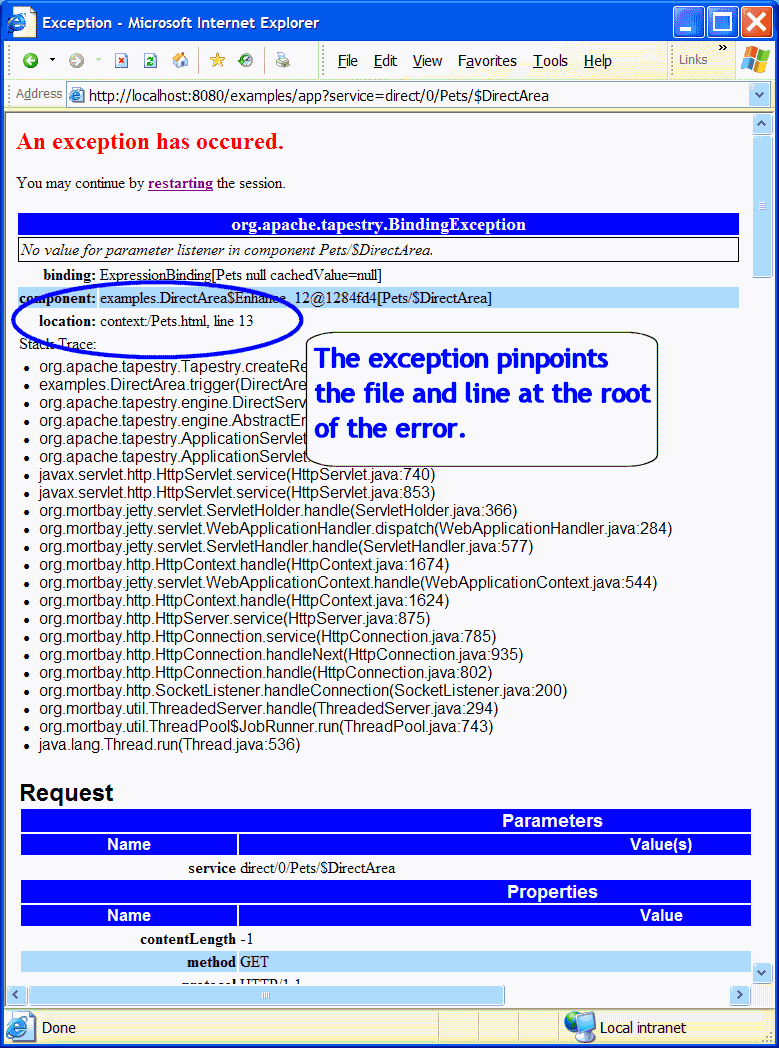
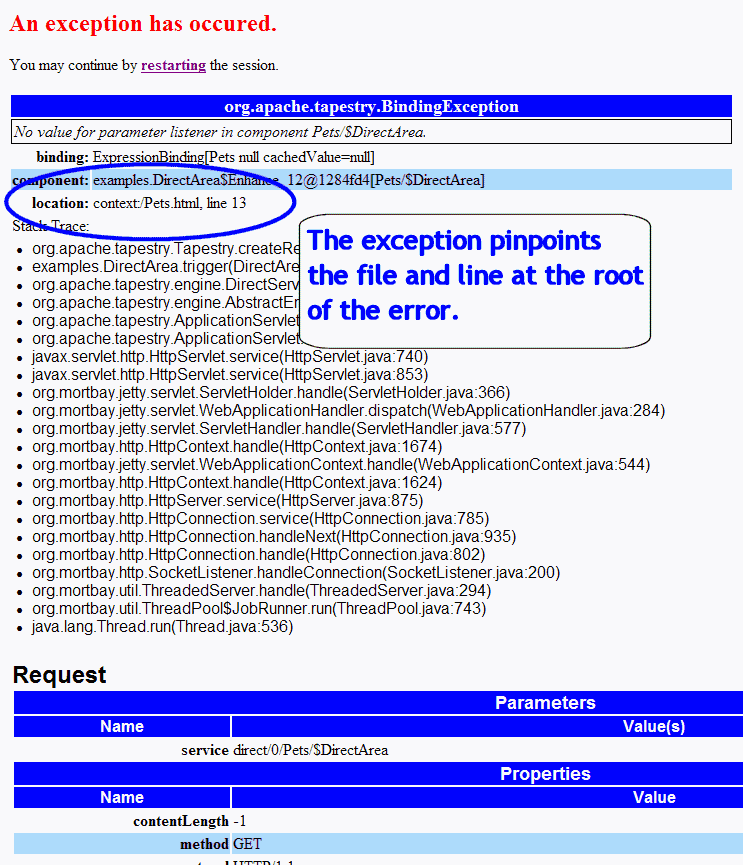
Simplify image demonstrating "line precise" error reporting.
git-svn-id: https://svn.apache.org/repos/asf/jakarta/tapestry/trunk@243349 13f79535-47bb-0310-9956-ffa450edef68

diff --git a/web/index_content.html b/web/index_content.html
@@ -62,7 +62,7 @@
 	in terms of objects, methods and properties
 	instead of URLs and query parameters.</span>"
 	
-	<p><A href="quotes_frame.html" target=_top>More Quotes ...</a></p>
+	<p><A href="quotes_frame.html">More Quotes ...</a></p>
 </div>Tapestry is an alternative to 
 	scripting environments such as
       JavaServer Pages or Velocity.  Tapestry goes far further,
@@ -91,7 +91,7 @@
 				<li>Extremely robust applications<br>
 				<i>Less code is less bugs
 					<br/>Sophisticated built-in exception reporting
-					<br/><a href="faq.html#lineprecise">Line precise error reporting</a>
+					<br/><a target="_self" href="faq.html#lineprecise">Line precise error reporting</a>
 				</i>
 				
 				<li>Easy team integration<br>
@@ -116,10 +116,10 @@ pages.
       It was released onto SourceForge in July, 2000.
 	  Release 1.0.0 
       occurred in May, 2001 and Release 2.0.0 in April, 2002.</p>
-<p>Tapestry moved to <a target="_top" href="http://jakarta.apache.org">The Jakarta Project</a> in January, 2003.	  
+<p>Tapestry moved to <a href="http://jakarta.apache.org">The Jakarta Project</a> in January, 2003.	  
 <p>Tapestry has been described in the print journal 
 	  <b>The Java Report</b> in the September 2001 issue.  Other articles
-	  includes the on-line journal <a target="_top" href="http://www.onjava.com/pub/a/onjava/2001/11/21/tapestry.html">OnJava</a>, in November 2001.
+	  includes the on-line journal <a  href="http://www.onjava.com/pub/a/onjava/2001/11/21/tapestry.html">OnJava</a>, in November 2001.
 
 <p>
 Tapestry has a very active 
@@ -135,7 +135,7 @@ enhancements to the framework.  It also has
 </p>
 
 <p>
-A <A href="wiki_frame.html" target=_top>Wiki</a> has been set 
+A <A href="wiki_frame.html">Wiki</a> has been set 
       up to discuss Tapestry and plan new features.</p>       
   
 	

diff --git a/web/faq.html b/web/faq.html
@@ -3,39 +3,7 @@
 <head>
 <title>Tapestry: FAQ</title><link rel="STYLESHEET" type="text/css" href="scripts/style_virtlib_pcIE55.css">
 </head>
-<script language="JavaScript">
-<!--
 
-function openWin(url, windowName, width, height)
-{
-	var screenX = Math.floor((screen.width)/2)-Math.floor(width/2);
-	var screenY = Math.floor((screen.height)/2)-Math.floor(height/2)-20;
-
-
-	var features = 
-		"toolbar=no," +
-		"scrollbars=no," +
-		"status=no," +
-		"top=" + screenY  + "," +
-		"left=" + screenX + "," +
-		"screenX=" + screenX + "," +
-		"screenY=" + screenY + "," +
-		"width=" + width + "," +
-		"height=" + height;
-
-	var newWindow = window.open(url, windowName, features);
-	
-	newWindow.focus();
-	return newWindow;
-}
-
-function showLinePrecise()
-{
-	openWin("images/LinePrecise.png", "LinePrecise", 779, 1048);
-}
-
-// -->
-</script>
 <body leftmargin="0" topmargin="0" marginwidth="0" marginheight="0">
 <table width="100%" border="0" cellspacing="0" cellpadding="2">
 	<tr>
@@ -244,7 +212,7 @@ Start your servlet container with the JVM system parameter
 		
 		<p>
 			<div class="callout">
-						<a href="javascript:showLinePrecise()"><img src="images/LinePrecise_thumb.png" alt="Line Precise"/></a>
+						<a target="_blank" href="images/LinePrecise.png"><img src="images/LinePrecise_thumb.png" alt="Line Precise"/></a>
 		<br/>	Tapestry exception report (click for larger image).
 			</div>
 		For example; say you bind a parameter of a component that expects

diff --git a/web/new.html b/web/new.html
@@ -23,7 +23,8 @@
 <pre>
 [ 18340 ] ApplicationRuntimeException doesn't compile on jdk 1.3.
 [ 18336 ] Tapestry 2.4a5 - LOGGING images missing for Inspector component
-[ 18490 ] compile warning for Workbench  
+[ 18490 ] compile warning for Workbench 
+[ 18013 ] typo in EvenOdd javadoc   
 </pre>
 
 <h3>Release 2.4-alpha-5</h3>
